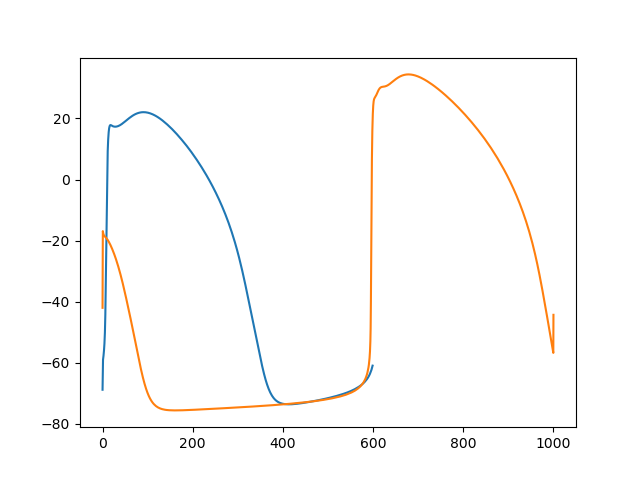
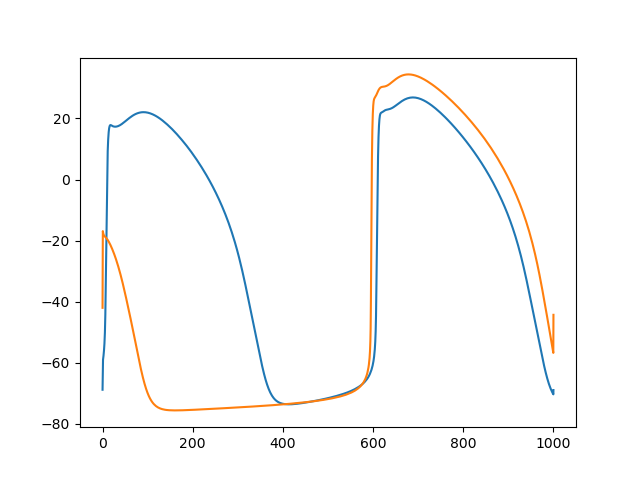
oneAP

diff --git a/leak.py b/leak.py
@@ -1,0 +1,40 @@
+import myokit
+import matplotlib.pyplot as plt
+import pandas as pd
+import numpy as np
+from functions import baseline_run, calc_APD, build_pop
+from scipy.signal import find_peaks 
+
+
+################# PACED #############################
+
+############### KERNIK + GSEAL #####################
+mod, proto, x = myokit.load('./kernik_leak_fixed.mmt')
+proto.schedule(4, 10, 1, 1000, 0) 
+
+mod['membrane']['gLeak'].set_rhs(0.1)
+
+sim = myokit.Simulation(mod, proto)
+sim.pre(1000 * 100)
+dat = sim.run(50000)
+
+i_stim = dat['stimulus.i_stim']
+peaks = find_peaks(-np.array(i_stim), distance=100)[0]
+start_ap = peaks[-3] 
+end_ap = peaks[-2] 
+
+t = np.array(dat['engine.time'][start_ap:end_ap])
+t = t - t[0]
+max_idx = np.argmin(np.abs(t-1000))
+t_leak = t[0:max_idx]
+end_ap = start_ap + max_idx
+
+v_leak = np.array(dat['membrane.V'][start_ap:end_ap])
+peak_v = find_peaks(-v_leak, height=0, distance=100)
+first_peak = peak_v[0][0] #first is to choose between the peaks and the peak_height, then to choose the first peak
+
+t_leak = t_leak[0:first_peak]
+v_leak = v_leak[0:first_peak]
+
+plt.plot(t_leak,v_leak, label = 'Kernik + 0.1gseal')
+plt.show()

diff --git a/Kernik_comparison.py b/Kernik_comparison.py
@@ -62,11 +62,12 @@ end_ap = peaks[-2]
 
 t = np.array(dat['engine.time'][start_ap:end_ap])
 t = t - t[0]
-max_idx = np.argmin(np.abs(t-600))
+max_idx = np.argmin(np.abs(t-1200))
 t_leak = t[0:max_idx]
 end_ap = start_ap + max_idx
 
 v_leak = np.array(dat['membrane.V'][start_ap:end_ap])
+peak_v = find_peaks(-v_leak, height=0, distance=100)
 
 plt.plot(t_leak,v_leak, label = 'Kernik + 0.1gseal')
 
